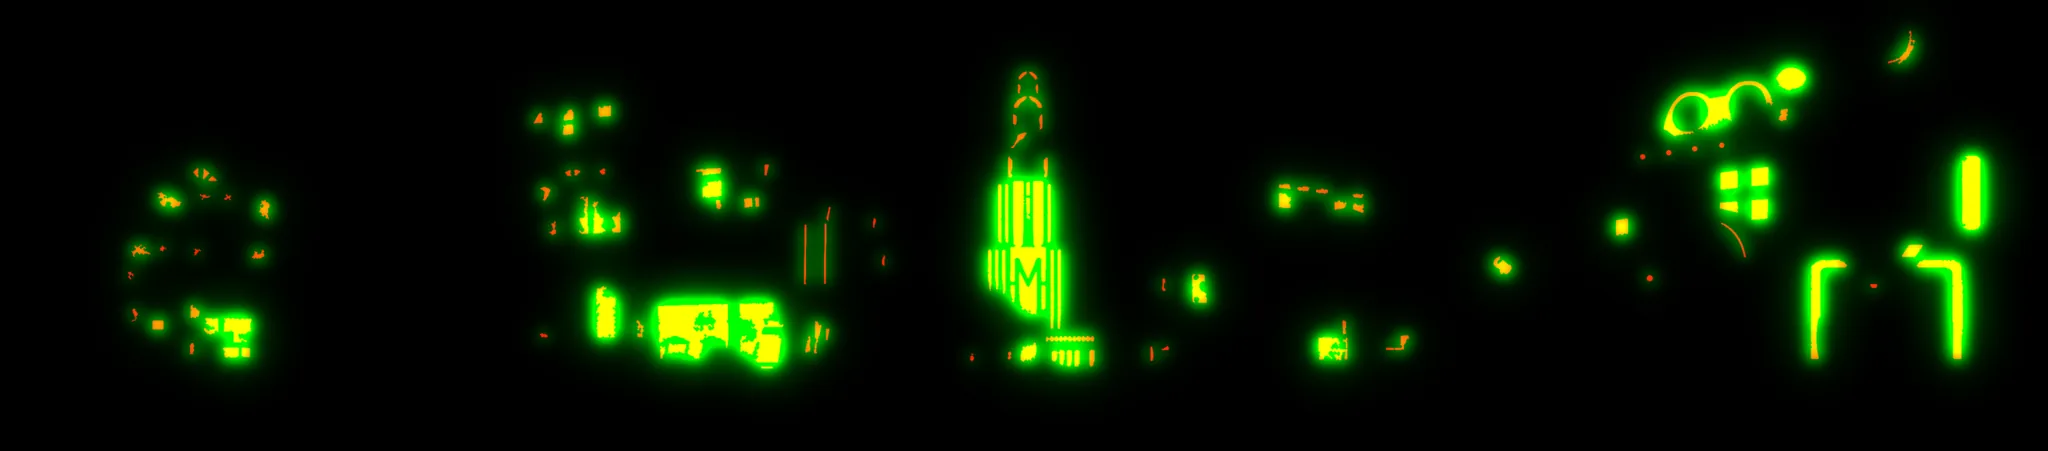
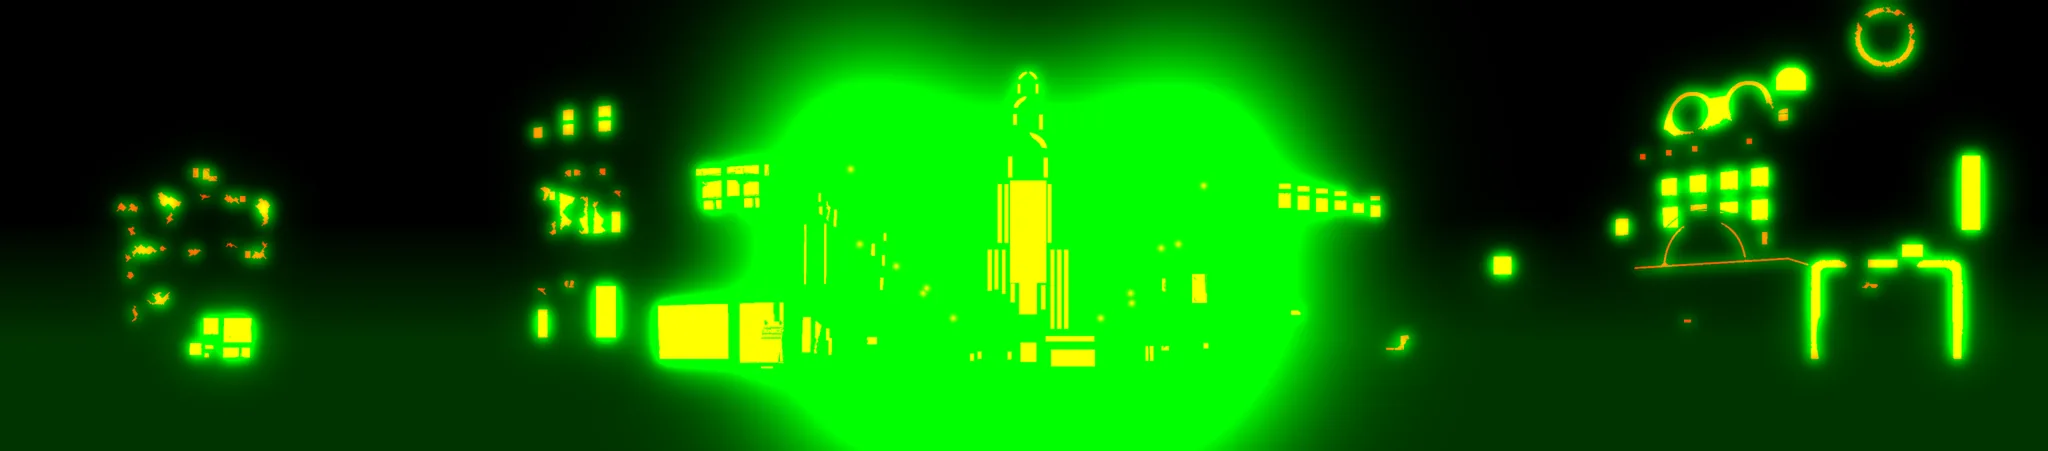
거리: 밤에 창을 통째로 켜고 가로등 불빛으로 거리를 밝게, 걷는 핑크빈과 스쿠터 NPC
- 불 켜진 창을 창 한 장 단위로, 가로등 둘레와 길바닥이 노랗게 밝아지고 공기에도 번진다
- 먼 빌딩의 무작위 불빛 점 제거
- 걷는 핑크빈(왼쪽 → 오른쪽), 스쿠터를 탄 NPC(오른쪽 → 왼쪽, 더 빠르게)
- 버스와 차를 가게 앞 길로 옮겨 드문드문 지나가게, 밤하늘에 별똥별

diff --git a/src/components/shop/scene/sceneGl.ts b/src/components/shop/scene/sceneGl.ts
@@ -1,12 +1,14 @@
 // 배경 장면을 그리는 WebGL 실행기. 그림은 게임 맵에서 뽑은 것(메이플 15번가)이고, 여기서는 층을 겹쳐 놓고
 // 시각에 따른 색과 작은 움직임만 입힌다. 화면 조작(INP)에 끼어들지 않는 것이 첫째 조건이다.
-//  · 앱 배경(sky) = 15번가 거리: 하늘(셰이더) → 구름 · 열기구 → 먼 빌딩 숲 → 버스와 차 → 거리의 건물(탑을 끌어안은 예티 풍선 포함) → 헬리콥터.
+//  · 앱 배경(sky) = 15번가 거리: 하늘(셰이더) → 구름 · 열기구 → 먼 빌딩 숲 → 거리의 건물(탑을 끌어안은 예티 풍선 포함) → 밤 불빛의 번짐
+//    → 가게 앞을 지나는 버스와 차 → 길을 걷는 핑크빈(왼쪽 → 오른쪽)과 스쿠터를 탄 NPC(오른쪽 → 왼쪽, 더 빠르게) → 헬리콥터.
 //    그림 1칸 = 화면 1px 로 놓고(배율을 바꾸지 않는다) 아래 가운데를 화면 아래 가운데에 맞춘다.
 //  · 무대(room) = 15번가 패션 매장 안: 창밖 거리 → 매장. 가운데 깔개가 캐릭터 발밑에 오고, 그림 1칸 = 캐릭터 도트 1칸이다 —
 //    미리보기 배율을 올리면 방도 함께 커진다(정수 배율이라 칸을 그대로 키운다).
 //  · 움직임: 구름 · 열기구 · 차가 따로 흘러가고(정점 셰이더에서 계산), 화면 전체가 아주 천천히 좌우로 흔들린다(층마다 폭이 다르다).
-//  · 시각(skyTime): 하늘 · 해 · 달 · 별 · 핑크빈 별자리, 그림에 곱하는 빛. 밤에는 거리가 가라앉고 창에 노란 불이 켜져 둘레로 새어 나온다
-//    (어느 창이 켜지는지는 그림에서 미리 뽑아 둔 지도 street-glow 가 정한다). 네온처럼 밝고 진한 색도 제 빛을 지킨다.
+//  · 시각(skyTime): 하늘 · 해 · 달 · 별 · 별똥별 · 핑크빈 별자리, 그림에 곱하는 빛. 밤에는 하늘이 아니라 거리가 밝다 —
+//    창에 노란 불이 켜지고 가로등 둘레와 길바닥이 노랗게 밝아진다(어느 창이 켜지고 어디가 밝은지는 미리 뽑아 둔 지도 street-glow 가 정한다).
+//    네온처럼 밝고 진한 색도 제 빛을 지킨다.
 //  · 그림은 화면이 한가할 때 받아 한 프레임에 한 장씩 올린다(디코딩은 createImageBitmap 으로 메인 스레드 밖에서).
 //  · 초당 30번 그린다. '동작 줄이기'면 바뀔 때와 20초마다만 그린다. 탭이 가려지면 rAF 가 멈춘다.
 //  · 캔버스와 컨텍스트는 종류마다 하나를 끝까지 재사용한다. 밝아지며 다가가는 연출은 처음 뜰 때 한 번뿐 —
@@ -30,27 +32,34 @@ const MAX_RATIO = 2      // 앱 배경 캔버스 해상도 상한(화면 배율)
 const SWAY = 12          // 화면이 좌우로 흔들리는 폭(그림 픽셀)
 const MASK = 0.2         // 앱 배경을 화면 내용과 가르는 어두운 막
 
-// 정점: 자리(2) · 텍스처 좌표(2) · [종류, 위상, 처음 x](3)
-// 종류 0 구름 · 1 열기구 · 2 헬리콥터 · 3 버스와 차 · 4 먼 빌딩 · 5 거리 · 6 무대의 창밖 · 7 무대
+// 정점: 자리(2) · 텍스처 좌표(2) · [종류, 위상(걷는 이는 그림 한 장의 텍스처 폭), 처음 x, 걷는 그림 장수](4)
+// 종류 0 구름 · 1 열기구 · 2 헬리콥터 · 3 버스와 차 · 4 먼 빌딩 · 5 거리 · 6 무대의 창밖 · 7 무대 · 8 밤 불빛의 번짐 · 9 오른쪽으로 걷는 이 · 10 왼쪽으로 가는 이
 const QUAD_VS = `
-attribute vec2 aPos; attribute vec2 aUv; attribute vec3 aAni;
+attribute vec2 aPos; attribute vec2 aUv; attribute vec4 aAni;
 uniform vec4 uView; uniform vec2 uRes; uniform float uTime; uniform float uSway;
 varying vec2 vUv; varying float vKind; varying vec2 vPos;
 void main(){
   float k = aAni.x, ph = aAni.y;
-  vec2 p = aPos;
+  vec2 p = aPos, uv = aUv;
   if (k < 3.5) {
     float sp = k < .5 ? 3. + ph * 2. : k < 1.5 ? 1.5 + ph * 2.5 : k < 2.5 ? 7. + ph * 6. : 22. + ph * 16.;
-    float pad = k < .5 ? 2155. : 400., per = k < .5 ? 6465. : ${STREET.w + 500}.;
+    float pad = k < .5 ? 2155. : 400., per = k < .5 ? 6465. : k < 2.5 ? ${STREET.w + 500}. : ${(STREET.w + 500) * 2}.;   // 차는 드문드문
     p.x += mod(aAni.z + sp * uTime + pad, per) - pad - aAni.z;
     p.y += k < .5 ? 0. : k < 1.5 ? sin(uTime * .55 + ph * 6.283) * 5. : k < 2.5 ? sin(uTime * 1.3 + ph * 6.283) * 2.5 : 0.;
+  } else if (k > 8.5) {
+    // 길을 지나가는 이들: 한쪽 끝에서 나타나 반대쪽 끝으로 사라지고, 한참 뒤에 다시 나타난다(둘의 주기와 처음 자리가 달라 따로 나타난다)
+    bool right = k < 9.5;
+    float per = right ? ${STREET.w + 700}. : ${Math.round((STREET.w + 700) * 1.35)}.;
+    float m = mod((right ? 24. : 46.) * uTime + (right ? 1250. : per - 700.), per);
+    p.x += (right ? m - 350. : ${STREET.w + 350}. - m) - aAni.z;
+    uv.x += floor(mod(uTime * 8., aAni.w)) * ph;
   }
-  float par = k < .5 ? .15 : k < 1.5 ? .3 : k < 2.5 ? .6 : k < 3.5 ? .8 : k < 4.5 ? .5 : k < 5.5 ? 1. : k < 6.5 ? .25 : 0.;
+  float par = k < .5 ? .15 : k < 1.5 ? .3 : k < 2.5 ? .6 : k < 3.5 ? 1. : k < 4.5 ? .5 : k < 5.5 ? 1. : k < 6.5 ? .25 : k < 7.5 ? 0. : 1.;
   p.x += uSway * par;
   vPos = p;
   vec2 c = p * uView.xy + uView.zw;          // 캔버스 픽셀(왼쪽 위 원점)
   gl_Position = vec4(c.x / uRes.x * 2. - 1., 1. - c.y / uRes.y * 2., 0., 1.);
-  vUv = aUv; vKind = k;
+  vUv = uv; vKind = k;
 }`
 const QUAD_FS = `
 precision mediump float;
@@ -59,34 +68,34 @@ uniform vec3 uFoot;   // 발 자리(그림 픽셀)와 그림자 반폭
 varying vec2 vUv; varying float vKind; varying vec2 vPos;
 void main(){
   vec4 t = texture2D(uTex, vUv);
+  if (vKind > 7.5 && vKind < 8.5) {
+    // 밤 불빛의 번짐: 가로등과 창 둘레의 공기가 노랗게 밝다(더하기)
+    gl_FragColor = vec4(vec3(1., .72, .34) * t.g * uLamp * .2 * (1. - uMask), 0.);
+    return;
+  }
   if (t.a < .004) discard;
   vec3 c = t.rgb / t.a;
-  float mx = max(c.r, max(c.g, c.b)), mn = min(c.r, min(c.g, c.b));
+  float mx = max(c.r, max(c.g, c.b)), mn = min(c.r, min(c.g, c.b)), lum = dot(c, vec3(.3, .59, .11));
   vec3 lit;
   if (vKind < .5) lit = c * uCloud;
-  else if (vKind < 6.5) {
-    lit = c * uAmb;
-    // 밤: 밝고 진한 색(네온 · 간판 · 불 켜진 창)은 제 빛을 지킨다
-    lit = mix(lit, c * 1.05 + .03, smoothstep(.6, .9, mx) * smoothstep(.2, .5, mx - mn) * uLamp);
-    if (vKind > 4.5 && vKind < 5.5) {
-      // 거리: 불 켜진 창(r)은 노랗게, 창에서 새어 나온 빛(g)은 둘레를 물들인다
-      vec2 gw = texture2D(uGlow, vUv).rg * uLamp;
-      lit = mix(lit, vec3(1., .86, .5) * (.55 + .5 * dot(c, vec3(.3, .59, .11))), gw.x);
-      lit += vec3(1., .74, .36) * gw.y * .42;
-    } else if (vKind > 3.5 && vKind < 4.5) {
-      // 먼 빌딩: 창 몇 개에만 불을 켠다
-      vec2 cell = vPos / vec2(7., 9.), f = fract(cell);
-      float h = fract(sin(dot(floor(cell), vec2(12.9898, 78.233))) * 43758.5453);
-      lit = mix(lit, vec3(1., .84, .5), step(.82, h) * step(.2, f.x) * step(f.x, .75) * step(.2, f.y) * step(f.y, .7) * uLamp * .85);
-      lit = mix(lit, uHaze, .3);
-    }
-  } else {
-    // 매장 안은 등불을 받아 바깥보다 덜 물든다. 아주 밝은 점(천장 · 바닥의 조명)은 느리게 반짝인다
+  else if (vKind > 6.5 && vKind < 7.5) {
+    // 매장 안은 등불을 받아 바깥보다 덜 물든다. 아주 밝은 면(조명)은 느리게 일렁인다
     lit = c * mix(vec3(1.), uAmb, .3) + vec3(.03, .012, 0.) * uLamp;
-    float lum = dot(c, vec3(.3, .59, .11));
     lit *= 1. + smoothstep(.9, .99, lum) * .07 * sin(uTw * 1.7 + vPos.x * .11 + vPos.y * .07);
     vec2 d = (vPos - uFoot.xy) / vec2(uFoot.z, uFoot.z * .26);
     lit *= 1. - .34 * smoothstep(1., .25, length(d));
+  } else {
+    lit = c * uAmb;
+    // 밤: 밝고 진한 색(네온 · 간판)은 제 빛을 지킨다
+    lit = mix(lit, c * 1.05 + .03, smoothstep(.6, .9, mx) * smoothstep(.2, .5, mx - mn) * uLamp);
+    if (vKind > 4.5 && vKind < 5.5) {
+      // 거리: 가로등과 창의 빛(g)을 받은 면은 제 색이 살아나고 노랗게 물든다. 불 켜진 창(r)은 통째로 노랗다
+      vec2 gw = texture2D(uGlow, vUv).rg * uLamp;
+      lit *= 1. + gw.y * 1.3;
+      lit += vec3(1., .72, .34) * gw.y * .16;
+      lit = mix(lit, vec3(1., .88, .56) * (.6 + .5 * lum), gw.x);
+    } else if (vKind > 3.5 && vKind < 4.5) lit = mix(lit, uHaze, .3);
+    else if ((vKind > 2.5 && vKind < 3.5) || vKind > 8.5) lit *= 1. + .75 * uLamp;   // 차와 행인은 가로등 아래에 있다
   }
   gl_FragColor = vec4(mix(lit, vec3(.09, .07, .16), uMask) * t.a, t.a);
 }`
@@ -121,6 +130,18 @@ void main(){
       vec2 dn = pinkbean((p - vec2(i == 0 ? 78. : size.x - 78., i == 0 ? 44. : 48.)) * .52);
       float a = max(exp(-dn.x * dn.x * 4.) * .7, exp(-dn.y * dn.y * .3));
       col = mix(col, vec3(1., .86, .4), min(1., a) * uNight * (.75 + .25 * sin(uTime * 1.2 + float(i) * 2.)));
+    }
+  }
+  if (uNight > .01) {
+    // 별똥별: 아홉 초에 한 번쯤, 둘에 하나꼴로 위쪽 하늘을 가로지른다
+    float id = floor(uTime / 9.), f = fract(uTime / 9.) * 7.;
+    float h1 = hash(vec2(id, 3.)), h2 = hash(vec2(id, 11.));
+    if (h1 > .5 && f < 1.) {
+      vec2 dir = normalize(vec2(h2 > .5 ? 1. : -1., .42));
+      vec2 head = vec2(size.x * (.15 + .7 * h2), 14. + 60. * hash(vec2(id, 5.))) + dir * f * 260.;
+      float along = dot(p - head, -dir);
+      float d = length(p - head + dir * clamp(along, 0., 70.));
+      col += vec3(1., .96, .86) * exp(-d * d * .6) * (1. - clamp(along, 0., 70.) / 70.) * sin(f * 3.1416) * uNight;
     }
   }
   vec2 m = p - uMoon.xy;
@@ -179,18 +200,20 @@ function program(gl: WebGLRenderingContext, vs: string, fs: string, names: strin
 }
 
 // 사각형 목록 → 정점 배열. 종류순으로 놓고 종류별 범위를 적어 둔다.
+const STRIDE = 8
 function mesh(kind: SceneKind) {
   const out: number[] = [], ranges: number[][] = []
-  const quad = (k: number, ph: number, x: number, y: number, w: number, h: number, u0: number, v0: number, u1: number, v1: number) => {
-    const r = (ranges[k] ??= [out.length / 7, 0])
+  const quad = (k: number, ph: number, x: number, y: number, w: number, h: number, u0: number, v0: number, u1: number, v1: number, frames = 0) => {
+    const r = (ranges[k] ??= [out.length / STRIDE, 0])
     r[1] += 6
-    for (const [cx, cy] of [[0, 0], [1, 0], [0, 1], [1, 0], [1, 1], [0, 1]]) out.push(x + cx * w, y + cy * h, cx ? u1 : u0, cy ? v1 : v0, k, ph, x)
+    for (const [cx, cy] of [[0, 0], [1, 0], [0, 1], [1, 0], [1, 1], [0, 1]]) out.push(x + cx * w, y + cy * h, cx ? u1 : u0, cy ? v1 : v0, k, ph, x, frames)
   }
   if (kind === 'sky') {
     const [aw, ah] = STREET.atlas
-    STREET.sprites.forEach(([k, ax, ay, w, h, x, y], i) => quad(k, (i * 0.618034) % 1, x, y, w, h, ax / aw, ay / ah, (ax + w) / aw, (ay + h) / ah))
+    STREET.sprites.forEach(([k, ax, ay, w, h, x, y, frames, pitch], i) => quad(k, frames ? pitch / aw : (i * 0.618034) % 1, x, y, w, h, ax / aw, ay / ah, (ax + w) / aw, (ay + h) / ah, frames))
     quad(4, 0, 0, STREET.far.y, STREET.w, STREET.far.h, 0, 0, 1, 1)
     quad(5, 0, 0, STREET.main.y, STREET.w, STREET.main.h, 0, 0, 1, 1)
+    quad(8, 0, 0, STREET.main.y, STREET.w, STREET.main.h, 0, 0, 1, 1)
   } else {
     quad(6, 0, 0, 0, ROOM.w, ROOM.h, 0, 0, 1, 1)
     quad(7, 0, 0, 0, ROOM.w, ROOM.h, 0, 0, 1, 1)
@@ -327,7 +350,7 @@ function draw(sc: Scene, now: number, st: SkyState, still: boolean) {
   gl.enableVertexAttribArray(1); gl.enableVertexAttribArray(2)
   gl.useProgram(q.prog)
   gl.bindBuffer(gl.ARRAY_BUFFER, q.buf)
-  gl.vertexAttribPointer(0, 2, gl.FLOAT, false, 28, 0); gl.vertexAttribPointer(1, 2, gl.FLOAT, false, 28, 8); gl.vertexAttribPointer(2, 3, gl.FLOAT, false, 28, 16)
+  gl.vertexAttribPointer(0, 2, gl.FLOAT, false, STRIDE * 4, 0); gl.vertexAttribPointer(1, 2, gl.FLOAT, false, STRIDE * 4, 8); gl.vertexAttribPointer(2, 4, gl.FLOAT, false, STRIDE * 4, 16)
   // 그림 픽셀 → 캔버스 픽셀: c = p * k + o
   let k: number, ox: number, oy: number
   if (room) { k = sc.px * zoom; ox = sc.foot[0] - ROOM.foot[0] * k; oy = sc.foot[1] - ROOM.foot[1] * k }
@@ -337,8 +360,8 @@ function draw(sc: Scene, now: number, st: SkyState, still: boolean) {
   // 불빛 지도는 1번 자리에(거리만 읽는다. 무대는 아무 그림이나 물려 둔다)
   gl.uniform1i(q.u.uGlow, 1); gl.activeTexture(gl.TEXTURE1); gl.bindTexture(gl.TEXTURE_2D, sc.tex[room ? 0 : 3])
   gl.uniform1i(q.u.uTex, 0); gl.activeTexture(gl.TEXTURE0)
-  // 밤의 거리는 하늘빛보다 더 가라앉힌다 — 네온이 살아난다
-  const dim = 1 - 0.4 * st.night
+  // 밤의 거리는 하늘빛보다 조금 더 가라앉힌다 — 그래야 창과 가로등의 불빛이 살아난다
+  const dim = 1 - 0.3 * st.night
   gl.uniform3f(q.u.uAmb, st.amb[0] * dim, st.amb[1] * dim, st.amb[2] * dim)
   gl.uniform3fv(q.u.uCloud, st.cloudA)
   gl.uniform3fv(q.u.uHaze, st.sky[2].map((v, i) => (v + st.sky[3][i]) / 2))
@@ -349,7 +372,7 @@ function draw(sc: Scene, now: number, st: SkyState, still: boolean) {
     for (const kd of kinds) { const r = sc.ranges[kd]; if (r) gl.drawArrays(gl.TRIANGLES, r[0], r[1]) }
   }
   if (room) { part(0, [6]); part(1, [7]) }
-  else { part(0, [0, 1]); part(1, [4]); part(0, [3]); part(2, [5]); part(0, [2]) }
+  else { part(0, [0, 1]); part(1, [4]); part(2, [5]); part(3, [8]); part(0, [3, 9, 10, 2]) }
   sc.dirty = false
   sc.at = now
   if (!sc.shown) { sc.shown = true; c.style.transition = 'opacity .45s ease'; c.style.opacity = '1' }

diff --git a/src/components/shop/scene/sceneData.ts b/src/components/shop/scene/sceneData.ts
@@ -1,4 +1,5 @@
 // parser/scripts/scene-build.cjs 가 만든다. 손으로 고치지 않는다.
-// 좌표는 그림 픽셀(왼쪽 위 원점). sprites: [종류, 아틀라스 x, y, w, h, 장면 x, y] — 종류 0 구름 · 1 열기구 · 2 헬리콥터 · 3 버스와 차
-export const STREET = {"w":4096,"h":1000,"far":{"y":118,"h":722},"main":{"y":98,"h":902},"atlas":[2200,742],"sprites":[[0,0,0,2155,459,-431,154],[0,0,0,2155,459,1724,154],[0,0,0,2155,459,3879,154],[0,474,461,387,166,1119,86],[0,474,461,387,166,2919,86],[0,0,461,472,190,169,11],[0,0,461,472,190,1669,11],[0,0,461,472,190,3169,11],[1,1755,461,71,92,1493,232],[1,1755,461,71,92,3922,91],[1,204,653,59,80,3033,158],[1,204,653,59,80,2555,254],[1,204,653,59,80,810,206],[1,1665,461,88,116,2452,156],[1,1665,461,88,116,240,122],[1,1665,461,88,116,4022,134],[1,1573,461,90,119,3100,189],[1,1573,461,90,119,1725,174],[1,1573,461,90,119,865,127],[2,0,653,100,89,1864,335],[2,102,653,100,89,2285,286],[3,863,461,353,152,746,682],[3,1218,461,353,152,2961,686],[3,1828,461,172,90,836,748],[3,1828,461,172,90,3836,748],[3,1828,461,172,90,2630,747],[3,2002,461,172,90,1997,750],[3,2002,461,172,90,54,748],[3,2002,461,172,90,2554,748]]}
+// 좌표는 그림 픽셀(왼쪽 위 원점). sprites: [종류, 아틀라스 x, y, w, h, 장면 x, y(, 걷는 그림 장수, 장 사이 간격)]
+// 종류 0 구름 · 1 열기구 · 2 헬리콥터 · 3 버스와 차 · 9 오른쪽으로 걷는 이 · 10 왼쪽으로 가는 이
+export const STREET: { w: number; h: number; far: { y: number; h: number }; main: { y: number; h: number }; atlas: number[]; sprites: number[][] } = {"w":4096,"h":1000,"far":{"y":118,"h":722},"main":{"y":98,"h":902},"atlas":[2200,811],"sprites":[[0,0,0,2155,459,-431,154],[0,0,0,2155,459,1724,154],[0,0,0,2155,459,3879,154],[0,474,461,387,166,1119,86],[0,474,461,387,166,2919,86],[0,0,461,472,190,169,11],[0,0,461,472,190,1669,11],[0,0,461,472,190,3169,11],[1,1755,461,71,92,1493,232],[1,1755,461,71,92,3922,91],[1,1134,653,59,80,3033,158],[1,1134,653,59,80,2555,254],[1,1134,653,59,80,810,206],[1,1665,461,88,116,2452,156],[1,1665,461,88,116,240,122],[1,1665,461,88,116,4022,134],[1,1573,461,90,119,3100,189],[1,1573,461,90,119,1725,174],[1,1573,461,90,119,865,127],[2,930,653,100,89,1864,335],[2,1032,653,100,89,2285,286],[3,863,461,353,152,746,688],[3,1218,461,353,152,2961,688],[3,1828,461,172,90,836,750],[3,2002,461,172,90,1997,750],[3,2002,461,172,90,54,750],[9,0,653,114,90,0,748,8,116],[10,0,745,90,66,0,772,12,92]]}
 export const ROOM = {"w":956,"h":538,"foot":[478,414]}
